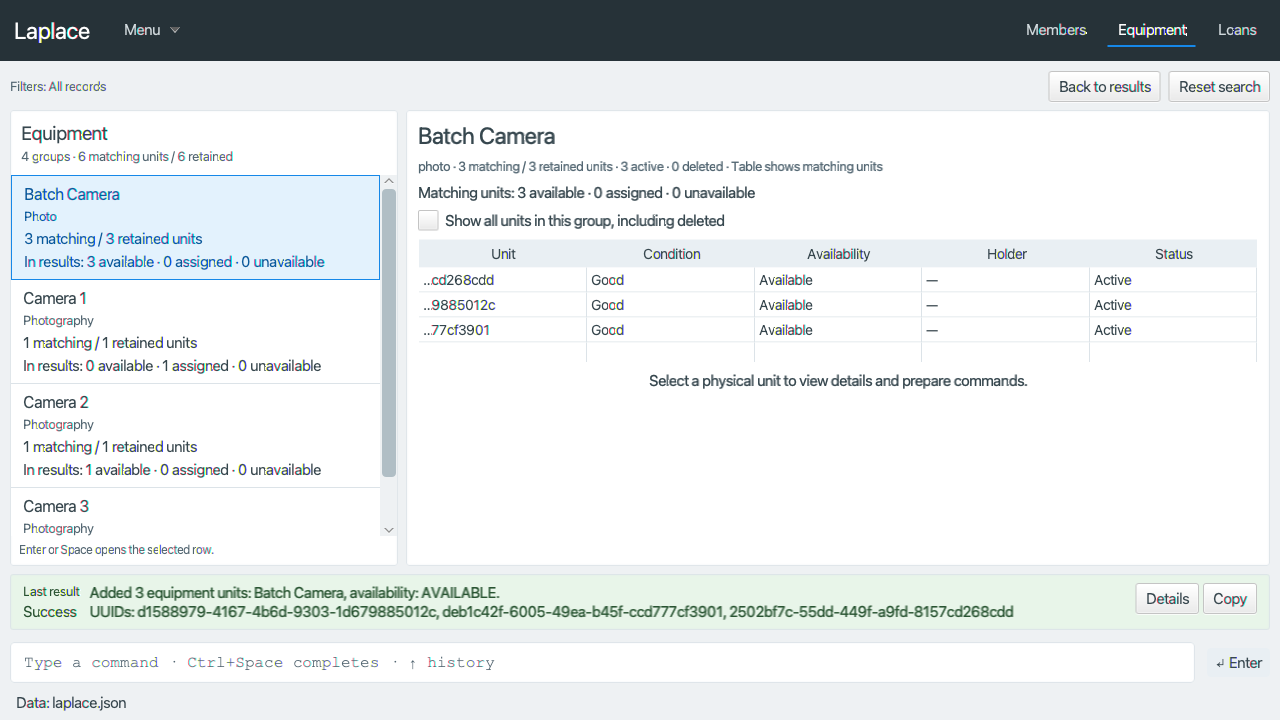
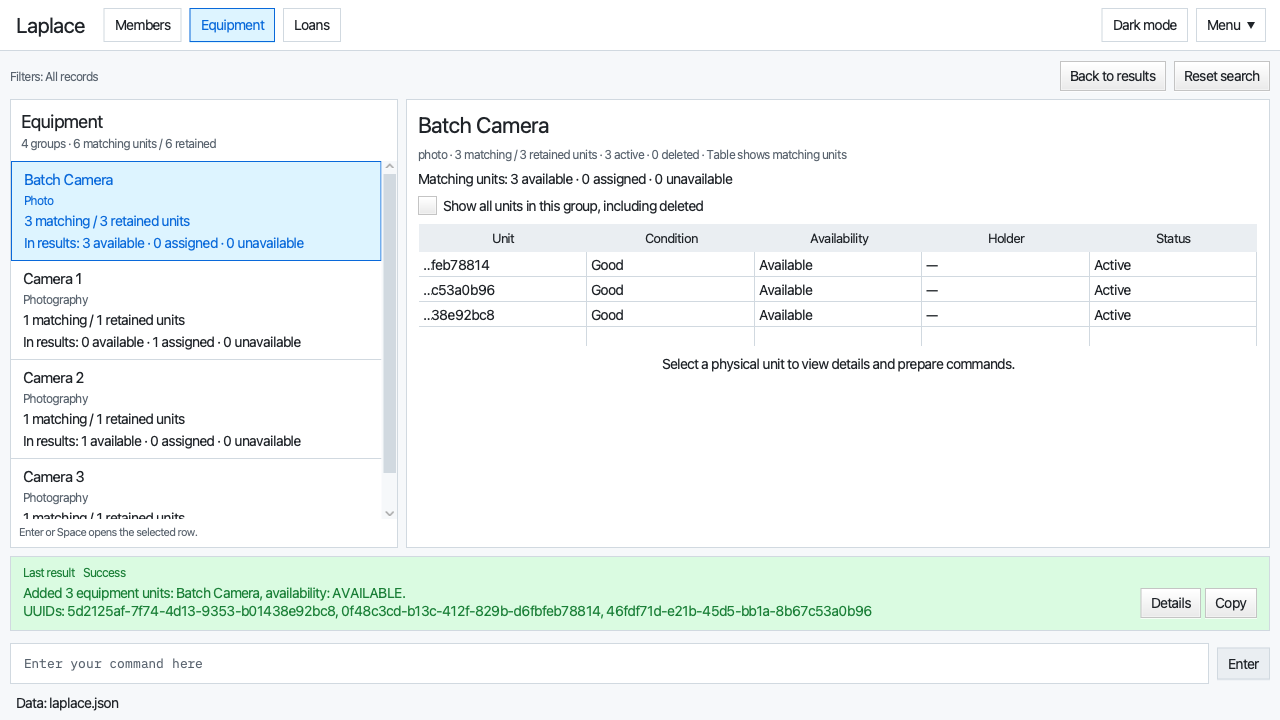
Align guides with the reviewed interface
Update appearance controls, result statuses, equipment filter behavior,
font credits and the current screenshot across the guides and landing
pages. Correct the landing-page command count and manual launch
instructions.

Document the observed Apple Silicon native-library packaging limitation
so successful tests with a matching test runtime are not mistaken for
portable release verification.

diff --git a/docs/DeveloperGuide.md b/docs/DeveloperGuide.md
@@ -18,6 +18,7 @@
   implementation, regression tests, and documentation.
 * Arjo Das also used OpenAI Codex for equipment batch-add and identity-preserving equipment maintenance planning, implementation, tests, lifecycle UML, and documentation.
   These acknowledgements describe those changes only.
+* Command text uses [IBM Plex Mono](https://github.com/IBM/plex) 2.004, copyright IBM Corp., under the SIL Open Font License. The faces and license are in `src/main/resources/fonts`.
 
 --------------------------------------------------------------------------------------------------------------------
 
@@ -92,7 +93,8 @@ loans, deletion and restoration. The group panel shares one scrolling surface wi
 The command catalog supplies examples and explicit completion. Input history is bounded to 100 session
 entries. `ResultDisplay` keeps full feedback behind a compact, expandable view. Related-record links use
 identity-based commands. `LoanPanel` derives urgency from expected return dates and an injectable clock;
-its return shortcut prepares a command for explicit review and submission.
+its return shortcut prepares a command for explicit review and submission. Loan urgency refreshes on
+commands, data changes and opening the Loans tab; there is no background midnight timer.
 
 `LaplaceTheme.css` defines shared looked-up colors; component styles refer to these tokens. A `dark` style
 class changes the palette for both windows, including table selection, feedback and command previews.
@@ -103,7 +105,10 @@ preserved together; equipment/member/loan schemas are unchanged.
 
 Tests exercise actual FXML/CSS on the shared JavaFX thread, command/storage routing, identity preservation,
 filter scope, date boundaries, clipboard text, theme changes and preference compatibility. UI snapshots
-are written under `build/reports/laplace` for visual review. No new libraries or font assets are required.
+are written under `build/reports/laplace` for visual review. Interface text uses the platform's system font;
+command text and identifiers use bundled IBM Plex Mono. `LaplaceFonts` registers the two packaged faces
+once before FXML loading. CSS controls sizes and weights, including dynamically created controls;
+there are no per-node font listeners or hard-coded platform font names.
 
 ### Logic component
 
@@ -725,17 +730,21 @@ testers are expected to do more *exploratory* testing.
 
     1. Download the JAR file and copy it into an empty folder.
 
-    1. Double-click the JAR file.<br>
+    1. In that folder, run `java -jar Laplace.jar` with Java 25.<br>
        Expected: The GUI opens in light mode with sample members, grouped equipment and open loans.
 
 1. Saving window preferences
 
     1. Resize the window to an optimal size. Move the window to a different location. Close the window.
 
-    1. Relaunch the app by double-clicking the JAR file.<br>
+    1. Relaunch with `java -jar Laplace.jar`.<br>
        Expected: The most recent window size and location are retained.
 
-1. _{ more test cases … }_
+**Known packaging limitation:** The current fat JAR contains Intel macOS JavaFX native libraries.
+An Apple Silicon launch without the JDK's bundled JavaFX fails with an incompatible native architecture;
+using a JavaFX-enabled JDK can mask this. Resolve and verify architecture-compatible packaging before
+releasing to users with a plain ARM64 Java 25 installation. GUI tests use a separate matching native
+test runtime, so a green test suite alone does not establish distributable-JAR portability.
 
 ### Grouped equipment, command assistance and appearance
 
@@ -747,6 +756,8 @@ Use a separate empty writable JAR folder. Keep any real dataset untouched.
 2. Edit one UUID with `equipment edit uuid/UUID condition/DAMAGED`, then search with
    `equipment search availability/available`. The group must show matching versus retained counts;
    Show all units reveals the damaged sibling. Directly view that UUID and check exact selection.
+   Uncheck Show all units: the table narrows again, the exact unit details remain visible, and a message
+   explains that the selected unit is outside the table filter.
 3. Rename the damaged unit, delete it, then restore it with the documented equipment commands. Expect
    regrouping without UUID changes. Check deleted records never inflate available counts.
 4. Open a member's details, copy contact fields, and use a related equipment link. Switch tabs and use
@@ -755,7 +766,7 @@ Use a separate empty writable JAR folder. Keep any real dataset untouched.
    with an unfinished draft, Ctrl+Space completion, Escape dismissal and keyboard focus navigation.
 6. Open Loans. Verify due/overdue labels against the computer's local date and the stored due date.
    Prepare a return; verify the UUID/date and that the loan remains open until submission.
-7. Run `mode dark`, open Help, then switch back via Menu. Repeat list/table selection, previews and errors
+7. Run `mode dark`, open Help, then switch back using the header appearance button. Repeat list/table selection, previews and errors
    in each appearance. Exit normally and relaunch; the selected mode persists. `mode sepia` is rejected.
 8. Review at 1920×1080 with 100%/125% scaling and 1280×720 with 150% scaling on supported systems.
    Check wrapping, scrolling, visible focus and contrast. Logical-size snapshots alone do not verify OS scaling.

diff --git a/docs/UserGuide.md b/docs/UserGuide.md
@@ -35,6 +35,8 @@ earlier builds may not support every behavior described here. Laplace is a local
 
 ![Laplace equipment groups in light mode](images/BetterUi.png)
 
+Command text uses [IBM Plex Mono](https://github.com/IBM/plex), distributed under the SIL Open Font License.
+
 Your rows, counts and selected record depend on your data. Both light and dark appearance are supported.
 If startup fails, check the JAR filename and Java version and keep the terminal error for the team.
 Do not delete your data file to troubleshoot startup.
@@ -84,6 +86,8 @@ To explore without changing the sample records:
 - Group counts distinguish **matching** units from **retained** units. Availability counts exclude deleted
   units. **Show all units** reveals group members outside the active search, including deleted records.
   Direct `equipment view uuid/UUID` opens that exact unit, enabling Show all units if needed.
+  Unchecking it narrows the table again while retaining the selected unit's details; a message explains
+  when that unit is outside the table filter.
   Short table identifiers are display labels only: hover for the full UUID, or copy it from unit details.
 - Member rows open member details. Copy buttons preserve full identifiers and contact fields. Related
   member/equipment links open the exact record. **Commands for this unit/member** contains command previews:
@@ -92,10 +96,13 @@ To explore without changing the sample records:
 - The **Loans** tab shows current open assignments, exact-identity links, assigned/due dates and an
   **Overdue** or **Due today** label when applicable. Rows reflow at narrower widths. **Prepare return command**
   fills the input with the unit UUID and today's local date; review it before pressing Enter.
-  Completed loan history remains retained internally and is not a user-facing list.
-- **Last result** describes the last command, even after switching tabs. **Details** expands the complete
-  feedback and **Copy** includes all UUIDs from batch creation. Ready, Success and Error are explicitly labeled.
-- The command input uses a monospaced font. **↑/↓** browse up to 100 recent submissions in this session,
+  Urgency updates when you open Loans, execute a command or change records. Reopen Loans after midnight
+  to refresh the labels. Completed loan history remains retained internally and is not a user-facing list.
+- **Last result** sits above the command feedback and stays after switching tabs. A green box is a
+  successful command, a red box is an error, and the box is neutral before the first command.
+  **Ready**, **Success** and **Error** also identify the status in text. **Details**
+  expands the complete feedback and **Copy** includes all UUIDs from batch creation.
+- The command input, identifiers and command examples use IBM Plex Mono. **↑/↓** browse up to 100 recent submissions in this session,
   preserving an unfinished draft. **Ctrl+Space** offers command-name or parameter-prefix completion at
   the end of the input. Choose an entry to insert it; **Escape** dismisses suggestions. Tab retains normal
   keyboard focus navigation. History is cleared when the application closes.
@@ -110,7 +117,7 @@ mode dark
 mode light
 ```
 
-Use these commands or **Menu → Dark mode / Light mode**. The main window and Help switch together.
+Use these commands or the header button labeled **Dark mode** or **Light mode**. The button names the appearance it will apply. **Menu** contains Help and Exit. The main window and Help switch together.
 Light is the default for new and older preference files. The chosen mode is saved with window preferences
 on normal exit and restored on the next launch. Changing mode preserves the current search and records.
 Only `dark` and `light` are accepted; missing/extra arguments are errors. These are appearance utilities,
@@ -231,7 +238,7 @@ active, deleted and displayed counts. Archival is not supported.
 
 The result is `Listed N active members.` Deleted records are counted separately when present.
 If there are no records, the list displays:
-`No members yet. Use member add to get started.`
+`No members yet`
 
 This command takes no parameters. For example, `member list nus/A0123456X` is rejected; use
 `member view nus/A0123456X` for an exact lookup. A syntax failure leaves the current screen unchanged.

diff --git a/docs/index.md b/docs/index.md
@@ -8,11 +8,11 @@
 [![CI Status](https://github.com/AY2627S1-CS2103T-F15-2/tp/workflows/Java%20CI/badge.svg)](https://github.com/AY2627S1-CS2103T-F15-2/tp/actions)
 [![codecov](https://codecov.io/gh/AY2627S1-CS2103T-F15-2/tp/graph/badge.svg?token=YBWSCFRIVB)](https://codecov.io/gh/AY2627S1-CS2103T-F15-2/tp)
 
-![Ui](images/Ui.png)
+![Laplace grouped equipment](images/BetterUi.png)
 
 **Laplace helps CCA EXCO members manage members, equipment and equipment loans.** It is a local, single-user desktop application with a graphical interface and typed commands.
 
-* To register members and equipment, issue items and record returns, start with the [_Quick Start_ section of the **User Guide**](UserGuide.html#quick-start). The guide covers all eleven commands, including `loans list`, and the bundled first-launch examples.
+* To register members and equipment, issue items and record returns, start with the [_Quick Start_ section of the **User Guide**](UserGuide.html#quick-start). The guide covers seventeen member, equipment and loan commands, plus appearance commands, and the bundled first-launch examples.
 * To contribute to Laplace, start with the [**Developer Guide**](DeveloperGuide.html).
 
 

diff --git a/README.md b/README.md
@@ -5,7 +5,7 @@
 
 ![Ui](docs/images/Laplace.png)
 
-![Ui](docs/images/Ui.png)
+![Laplace grouped equipment](docs/images/BetterUi.png)
 
 
 
@@ -15,3 +15,6 @@
 
 ## Acknowledgments
 This project is based on the AddressBook-Level3 project created by the [SE-EDU initiative](https://se-education.org).
+
+Command text uses [IBM Plex Mono](https://github.com/IBM/plex), copyright IBM Corp., under the
+[SIL Open Font License](src/main/resources/fonts/OFL.txt).
